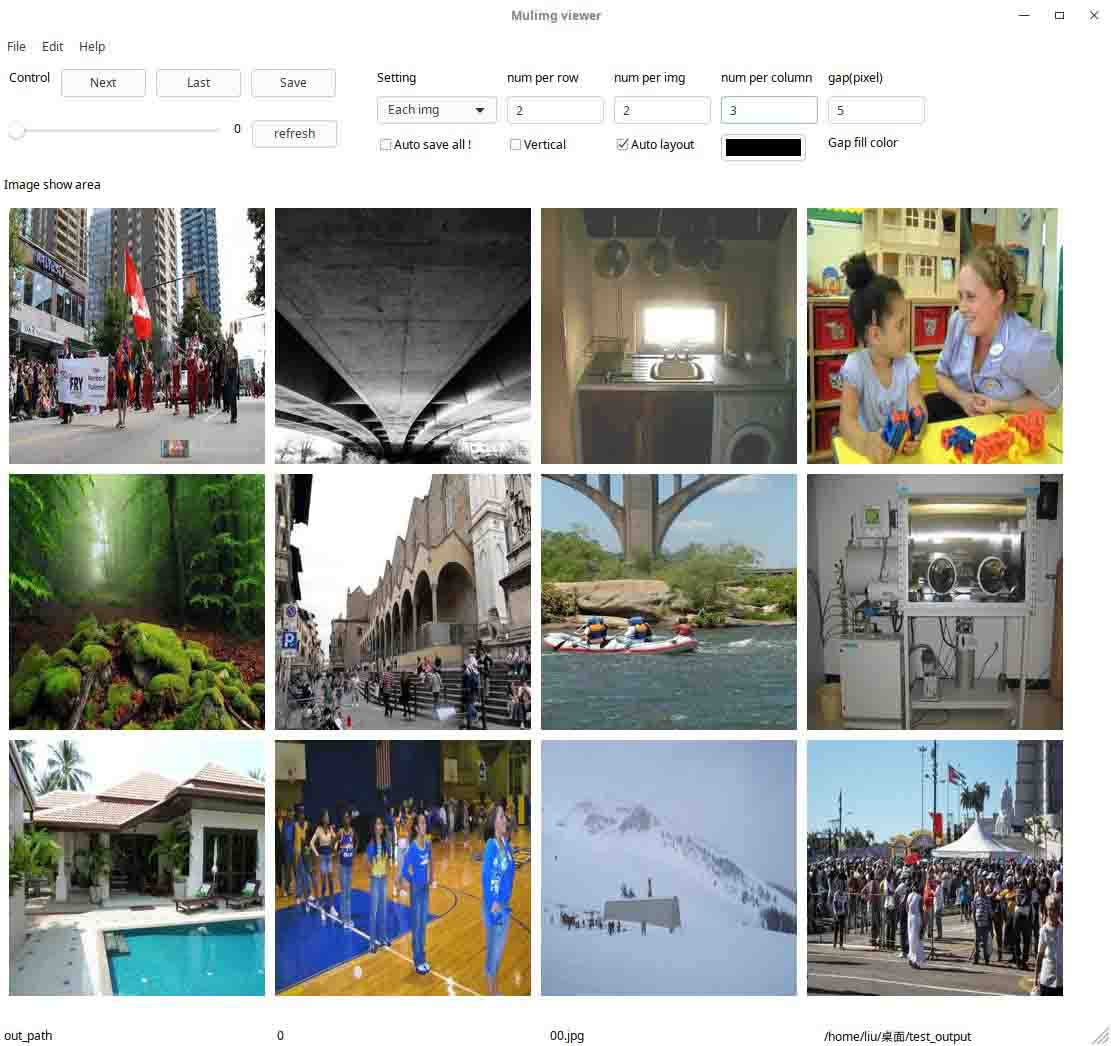
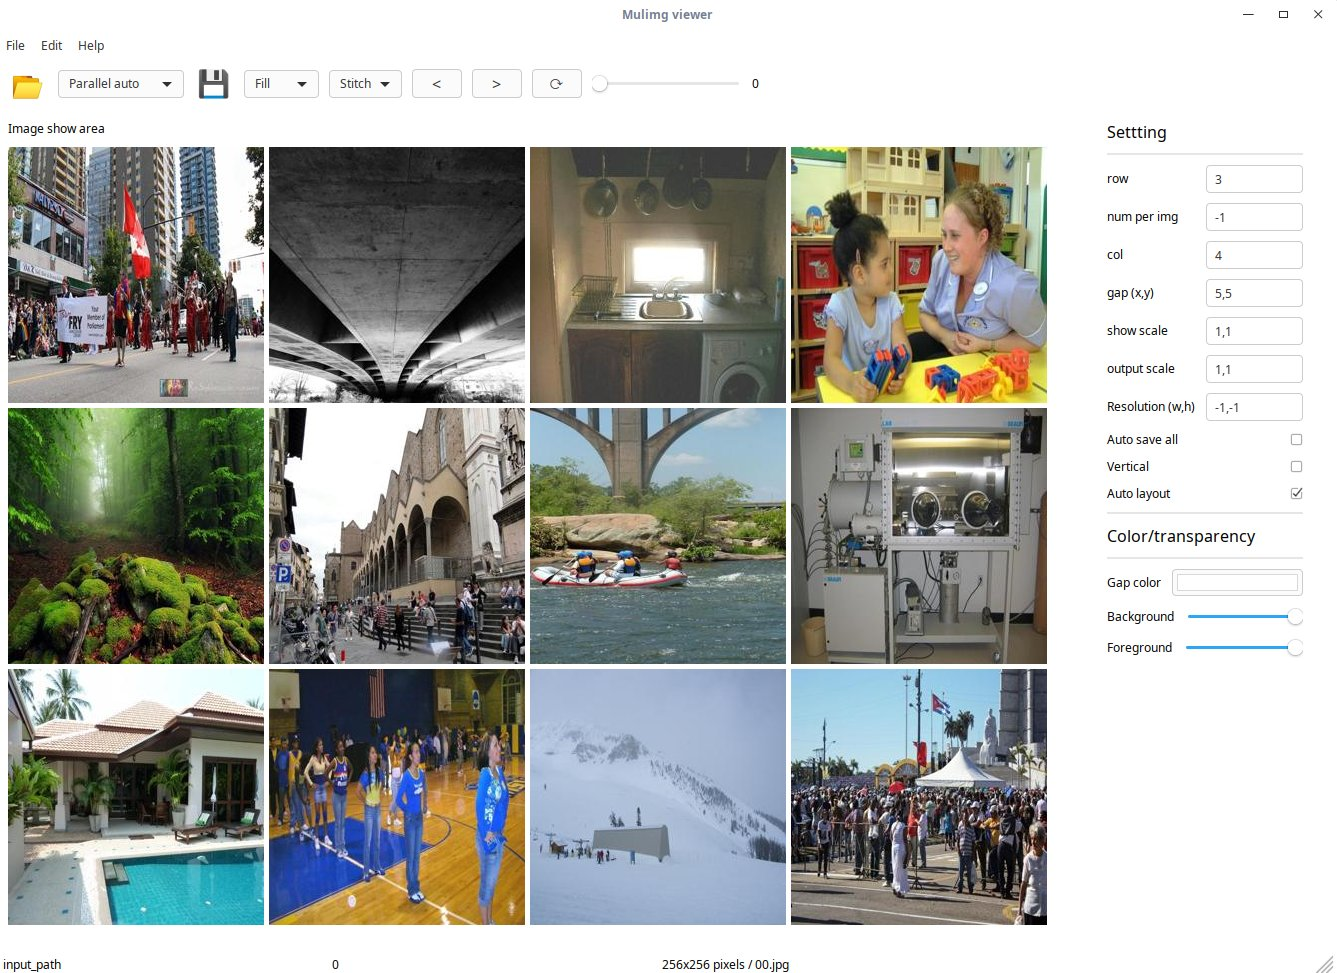
2.02

diff --git a/path_select_gui.py b/path_select_gui.py
@@ -1,10 +1,10 @@
 # -*- coding: utf-8 -*-
 
 ###########################################################################
-## Python code generated with wxFormBuilder (version Oct 26 2018)
-## http://www.wxformbuilder.org/
+# Python code generated with wxFormBuilder (version Oct 26 2018)
+# http://www.wxformbuilder.org/
 ##
-## PLEASE DO *NOT* EDIT THIS FILE!
+# PLEASE DO *NOT* EDIT THIS FILE!
 ###########################################################################
 
 import wx
@@ -12,83 +12,86 @@ import wx.xrc
 import wx.richtext
 
 ###########################################################################
-## Class PathSelectFrameGui
+# Class PathSelectFrameGui
 ###########################################################################
 
-class PathSelectFrameGui ( wx.Frame ):
 
-	def __init__( self, parent ):
-		wx.Frame.__init__ ( self, parent, id = wx.ID_ANY, title = u"Parallel manual choose input directory", pos = wx.DefaultPosition, size = wx.Size( 500,300 ), style = wx.DEFAULT_FRAME_STYLE|wx.TAB_TRAVERSAL )
+class PathSelectFrameGui (wx.Frame):
 
-		self.SetSizeHints( wx.DefaultSize, wx.DefaultSize )
+    def __init__(self, parent):
+        wx.Frame.__init__(self, parent, id=wx.ID_ANY, title=u"Parallel manual choose input directory",
+                          pos=wx.DefaultPosition, size=wx.Size(500, 300), style=wx.DEFAULT_FRAME_STYLE | wx.TAB_TRAVERSAL)
 
-		fgSizer1 = wx.FlexGridSizer( 0, 1, 0, 0 )
-		fgSizer1.SetFlexibleDirection( wx.BOTH )
-		fgSizer1.SetNonFlexibleGrowMode( wx.FLEX_GROWMODE_SPECIFIED )
+        self.SetSizeHints(wx.DefaultSize, wx.DefaultSize)
 
-		utton_clear_last = wx.BoxSizer( wx.HORIZONTAL )
+        fgSizer1 = wx.FlexGridSizer(0, 1, 0, 0)
+        fgSizer1.SetFlexibleDirection(wx.BOTH)
+        fgSizer1.SetNonFlexibleGrowMode(wx.FLEX_GROWMODE_SPECIFIED)
 
-		self.m_dirPicker1 = wx.DirPickerCtrl( self, wx.ID_ANY, wx.EmptyString, u"Select a folder", wx.DefaultPosition, wx.DefaultSize, wx.DIRP_DEFAULT_STYLE )
-		utton_clear_last.Add( self.m_dirPicker1, 0, wx.ALL, 5 )
+        utton_clear_last = wx.BoxSizer(wx.HORIZONTAL)
 
-		self.button_clear_all = wx.Button( self, wx.ID_ANY, u"Clear all path", wx.DefaultPosition, wx.DefaultSize, 0 )
-		utton_clear_last.Add( self.button_clear_all, 0, wx.ALL, 5 )
+        self.m_dirPicker1 = wx.DirPickerCtrl(
+            self, wx.ID_ANY, wx.EmptyString, u"Select a folder", wx.DefaultPosition, wx.DefaultSize, wx.DIRP_DEFAULT_STYLE)
+        utton_clear_last.Add(self.m_dirPicker1, 0, wx.ALL, 5)
 
-		self.button_clear_last = wx.Button( self, wx.ID_ANY, u"Clear last path ", wx.DefaultPosition, wx.DefaultSize, 0 )
-		utton_clear_last.Add( self.button_clear_last, 0, wx.ALL, 5 )
+        self.button_clear_all = wx.Button(
+            self, wx.ID_ANY, u"Clear all path", wx.DefaultPosition, wx.DefaultSize, 0)
+        utton_clear_last.Add(self.button_clear_all, 0, wx.ALL, 5)
 
+        self.button_clear_last = wx.Button(
+            self, wx.ID_ANY, u"Clear last path ", wx.DefaultPosition, wx.DefaultSize, 0)
+        utton_clear_last.Add(self.button_clear_last, 0, wx.ALL, 5)
 
-		fgSizer1.Add( utton_clear_last, 1, wx.EXPAND, 5 )
+        fgSizer1.Add(utton_clear_last, 1, wx.EXPAND, 5)
 
-		self.m_richText1 = wx.richtext.RichTextCtrl( self, wx.ID_ANY, wx.EmptyString, wx.DefaultPosition, wx.Size( -1,300 ), 0|wx.VSCROLL|wx.HSCROLL|wx.NO_BORDER|wx.WANTS_CHARS )
-		fgSizer1.Add( self.m_richText1, 1, wx.EXPAND |wx.ALL, 5 )
+        self.m_richText1 = wx.richtext.RichTextCtrl(self, wx.ID_ANY, wx.EmptyString, wx.DefaultPosition, wx.Size(
+            -1, 300), 0 | wx.VSCROLL | wx.HSCROLL | wx.NO_BORDER | wx.WANTS_CHARS)
+        fgSizer1.Add(self.m_richText1, 1, wx.EXPAND | wx.ALL, 5)
 
+        self.SetSizer(fgSizer1)
+        self.Layout()
+        self.m_menubar1 = wx.MenuBar(0)
+        self.m_menu1 = wx.Menu()
+        self.m_menuItem1 = wx.MenuItem(
+            self.m_menu1, wx.ID_ANY, u"Clear all path" + u"\t" + u"CTRL+A", wx.EmptyString, wx.ITEM_NORMAL)
+        self.m_menu1.Append(self.m_menuItem1)
 
-		self.SetSizer( fgSizer1 )
-		self.Layout()
-		self.m_menubar1 = wx.MenuBar( 0 )
-		self.m_menu1 = wx.Menu()
-		self.m_menuItem1 = wx.MenuItem( self.m_menu1, wx.ID_ANY, u"Clear all path"+ u"\t" + u"CTRL+A", wx.EmptyString, wx.ITEM_NORMAL )
-		self.m_menu1.Append( self.m_menuItem1 )
+        self.m_menuItem2 = wx.MenuItem(
+            self.m_menu1, wx.ID_ANY, u"Clear last path" + u"\t" + u"CTRL+Z", wx.EmptyString, wx.ITEM_NORMAL)
+        self.m_menu1.Append(self.m_menuItem2)
 
-		self.m_menuItem2 = wx.MenuItem( self.m_menu1, wx.ID_ANY, u"Clear last path"+ u"\t" + u"CTRL+Z", wx.EmptyString, wx.ITEM_NORMAL )
-		self.m_menu1.Append( self.m_menuItem2 )
+        self.menu_close = wx.MenuItem(
+            self.m_menu1, wx.ID_ANY, u"Close" + u"\t" + u"Alt+C", wx.EmptyString, wx.ITEM_NORMAL)
+        self.m_menu1.Append(self.menu_close)
 
-		self.menu_close = wx.MenuItem( self.m_menu1, wx.ID_ANY, u"Close"+ u"\t" + u"Alt+C", wx.EmptyString, wx.ITEM_NORMAL )
-		self.m_menu1.Append( self.menu_close )
+        self.m_menubar1.Append(self.m_menu1, u"Edit")
 
-		self.m_menubar1.Append( self.m_menu1, u"Edit" )
+        self.SetMenuBar(self.m_menubar1)
 
-		self.SetMenuBar( self.m_menubar1 )
+        self.Centre(wx.BOTH)
 
+        # Connect Events
+        self.m_dirPicker1.Bind(wx.EVT_DIRPICKER_CHANGED, self.change_dir)
+        self.button_clear_all.Bind(wx.EVT_BUTTON, self.clear_all_path)
+        self.button_clear_last.Bind(wx.EVT_BUTTON, self.clear_last_path)
+        self.Bind(wx.EVT_MENU, self.clear_all_path,
+                  id=self.m_menuItem1.GetId())
+        self.Bind(wx.EVT_MENU, self.clear_last_path,
+                  id=self.m_menuItem2.GetId())
+        self.Bind(wx.EVT_MENU, self.Close, id=self.menu_close.GetId())
 
-		self.Centre( wx.BOTH )
+    def __del__(self):
+        pass
 
-		# Connect Events
-		self.m_dirPicker1.Bind( wx.EVT_DIRPICKER_CHANGED, self.change_dir )
-		self.button_clear_all.Bind( wx.EVT_BUTTON, self.clear_all_path )
-		self.button_clear_last.Bind( wx.EVT_BUTTON, self.clear_last_path )
-		self.Bind( wx.EVT_MENU, self.clear_all_path, id = self.m_menuItem1.GetId() )
-		self.Bind( wx.EVT_MENU, self.clear_last_path, id = self.m_menuItem2.GetId() )
-		self.Bind( wx.EVT_MENU, self.Close, id = self.menu_close.GetId() )
+    # Virtual event handlers, overide them in your derived class
+    def change_dir(self, event):
+        event.Skip()
 
-	def __del__( self ):
-		pass
+    def clear_all_path(self, event):
+        event.Skip()
 
+    def clear_last_path(self, event):
+        event.Skip()
 
-	# Virtual event handlers, overide them in your derived class
-	def change_dir( self, event ):
-		event.Skip()
-
-	def clear_all_path( self, event ):
-		event.Skip()
-
-	def clear_last_path( self, event ):
-		event.Skip()
-
-
-
-	def Close( self, event ):
-		event.Skip()
-
-
+    def Close(self, event):
+        event.Skip()

diff --git a/mulimg_viewer_gui.py b/mulimg_viewer_gui.py
@@ -193,19 +193,6 @@ class MulimgViewerGui ( wx.Frame ):
 
 		fgSizer3.Add( bSizer5, 1, wx.EXPAND, 5 )
 
-		bSizer6 = wx.BoxSizer( wx.HORIZONTAL )
-
-		self.m_staticText7 = wx.StaticText( self.m_scrolledWindow2, wx.ID_ANY, u"output scale", wx.DefaultPosition, wx.DefaultSize, 0 )
-		self.m_staticText7.Wrap( -1 )
-
-		bSizer6.Add( self.m_staticText7, 1, wx.ALL|wx.ALIGN_CENTER_VERTICAL, 5 )
-
-		self.output_scale = wx.TextCtrl( self.m_scrolledWindow2, wx.ID_ANY, u"1,1", wx.DefaultPosition, wx.DefaultSize, 0 )
-		bSizer6.Add( self.output_scale, 0, wx.ALL, 5 )
-
-
-		fgSizer3.Add( bSizer6, 1, wx.EXPAND, 5 )
-
 		bSizer7 = wx.BoxSizer( wx.HORIZONTAL )
 
 		self.m_staticText8 = wx.StaticText( self.m_scrolledWindow2, wx.ID_ANY, u"Resolution (w,h)", wx.DefaultPosition, wx.DefaultSize, 0 )
@@ -218,6 +205,19 @@ class MulimgViewerGui ( wx.Frame ):
 
 
 		fgSizer3.Add( bSizer7, 1, wx.EXPAND, 5 )
+
+		bSizer6 = wx.BoxSizer( wx.HORIZONTAL )
+
+		self.m_staticText7 = wx.StaticText( self.m_scrolledWindow2, wx.ID_ANY, u"output scale", wx.DefaultPosition, wx.DefaultSize, 0 )
+		self.m_staticText7.Wrap( -1 )
+
+		bSizer6.Add( self.m_staticText7, 1, wx.ALL|wx.ALIGN_CENTER_VERTICAL, 5 )
+
+		self.output_scale = wx.TextCtrl( self.m_scrolledWindow2, wx.ID_ANY, u"1,1", wx.DefaultPosition, wx.DefaultSize, 0 )
+		bSizer6.Add( self.output_scale, 0, wx.ALL, 5 )
+
+
+		fgSizer3.Add( bSizer6, 1, wx.EXPAND, 5 )
 
 		bSizer8 = wx.BoxSizer( wx.HORIZONTAL )
 
@@ -326,14 +326,14 @@ class MulimgViewerGui ( wx.Frame ):
 		self.m_menubar1 = wx.MenuBar( 0 )
 		self.m_menu1 = wx.Menu()
 		self.m_menu11 = wx.Menu()
+		self.menu_open_sequential = wx.MenuItem( self.m_menu11, wx.ID_ANY, u"Sequential"+ u"\t" + u"Ctrl+E", u"one dir mul limg", wx.ITEM_NORMAL )
+		self.m_menu11.Append( self.menu_open_sequential )
+
 		self.menu_open_auto = wx.MenuItem( self.m_menu11, wx.ID_ANY, u"Parallel auto"+ u"\t" + u"Ctrl+A", u"one dir mul dir", wx.ITEM_NORMAL )
 		self.m_menu11.Append( self.menu_open_auto )
 
 		self.menu_open_manual = wx.MenuItem( self.m_menu11, wx.ID_ANY, u"Parallel manual"+ u"\t" + u"Ctrl+M", u"one dir mul dir", wx.ITEM_NORMAL )
 		self.m_menu11.Append( self.menu_open_manual )
-
-		self.menu_open_sequential = wx.MenuItem( self.m_menu11, wx.ID_ANY, u"Sequential"+ u"\t" + u"Ctrl+E", u"one dir mul limg", wx.ITEM_NORMAL )
-		self.m_menu11.Append( self.menu_open_sequential )
 
 		self.m_menu1.AppendSubMenu( self.m_menu11, u"Open" )
 
@@ -392,9 +392,9 @@ class MulimgViewerGui ( wx.Frame ):
 		self.colourPicker_gap.Bind( wx.EVT_COLOURPICKER_CHANGED, self.colour_change )
 		self.background_slider.Bind( wx.EVT_SCROLL, self.background_alpha )
 		self.foreground_slider.Bind( wx.EVT_SCROLL, self.foreground_alpha )
+		self.Bind( wx.EVT_MENU, self.one_dir_mul_img, id = self.menu_open_sequential.GetId() )
 		self.Bind( wx.EVT_MENU, self.one_dir_mul_dir_auto, id = self.menu_open_auto.GetId() )
 		self.Bind( wx.EVT_MENU, self.one_dir_mul_dir_manual, id = self.menu_open_manual.GetId() )
-		self.Bind( wx.EVT_MENU, self.one_dir_mul_img, id = self.menu_open_sequential.GetId() )
 		self.Bind( wx.EVT_MENU, self.out_path, id = self.menu_output.GetId() )
 		self.Bind( wx.EVT_MENU, self.next_img, id = self.menu_next.GetId() )
 		self.Bind( wx.EVT_MENU, self.last_img, id = self.menu_last.GetId() )
@@ -444,13 +444,13 @@ class MulimgViewerGui ( wx.Frame ):
 	def foreground_alpha( self, event ):
 		event.Skip()
 
+	def one_dir_mul_img( self, event ):
+		event.Skip()
+
 	def one_dir_mul_dir_auto( self, event ):
 		event.Skip()
 
 	def one_dir_mul_dir_manual( self, event ):
-		event.Skip()
-
-	def one_dir_mul_img( self, event ):
 		event.Skip()
 
 	def out_path( self, event ):

diff --git a/utils.py b/utils.py
@@ -146,7 +146,8 @@ class ImgManager(ImgDataset):
         self.gap_alpha = 255
         self.img_alpha = 255
         self.img_stitch_mode = 0  # 0:"fill" 1:"crop" 2:"resize"
-        self.img_resolution = [-1,-1]
+        self.img_resolution = [-1, -1]
+        self.custom_resolution = False
 
     def save_img(self, out_path_str, out_type):
         check = []
@@ -242,8 +243,14 @@ class ImgManager(ImgDataset):
                 width = np.mean(width_)
                 height = np.mean(height_)
         else:
-            self.img_resolution = [-1,-1]
-        self.img_resolution = [int(width),int(height)]
+            self.img_resolution = [-1, -1]
+
+        if self.layout_params[6][0]==-1 or self.layout_params[6][1]==-1:
+            self.img_resolution = [int(width), int(height)]
+            self.custom_resolution = False
+        else:
+            self.img_resolution = [int(i) for i in self.layout_params[6]]
+            self.custom_resolution = True
 
         return img_list
 
@@ -251,7 +258,6 @@ class ImgManager(ImgDataset):
         try:
             img_list = self.get_img_list()
             width,height = self.img_resolution
-
             img_num_per_row = self.layout_params[0]
             num_per_img = self.layout_params[1]
             img_num_per_column = self.layout_params[2]
@@ -274,7 +280,7 @@ class ImgManager(ImgDataset):
                                 im = self.img_preprocessing(im)
                                 img.paste(im, (x, y))
             else:
-                img = Image.new('RGBA', (width * img_num_per_row * num_per_img + gap[0] * (img_num_per_row-1),height * img_num_per_column + gap[1] * (img_num_per_column-1)), self.gap_color)
+                img = Image.new('RGBA', (width * img_num_per_row * num_per_img + gap[0] * (img_num_per_row-1), height * img_num_per_column + gap[1] * (img_num_per_column-1)), self.gap_color)
 
                 for iy in range(img_num_per_column):
 
@@ -301,16 +307,23 @@ class ImgManager(ImgDataset):
         return wx.Bitmap.FromBufferRGBA(width, height, image.tobytes())
 
     def img_preprocessing(self, img):
-        if self.img_stitch_mode==0:
-            pass
-        elif self.img_stitch_mode==1:
-            width,height = self.img_resolution
-            (left, upper, right, lower) = ((img.size[0]-width)/2,(img.size[1]-height)/2, (img.size[0]-width)/2+width, (img.size[1]-height)/2+height)
-            img = img.crop((left, upper, right, lower))
-        elif self.img_stitch_mode==2:
-            width,height = self.img_resolution
-            img = img.resize((width, height), Image.BICUBIC)
+        if self.custom_resolution:
+            # custom image resolution
+            width, height = self.img_resolution
+            img = img.resize((width, height), Image.BICUBIC)  
+        else:
+            if self.img_stitch_mode == 0:
+                pass
+            elif self.img_stitch_mode == 1:
+                width, height = self.img_resolution
+                (left, upper, right, lower) = (
+                    (img.size[0]-width)/2, (img.size[1]-height)/2, (img.size[0]-width)/2+width, (img.size[1]-height)/2+height)
+                img = img.crop((left, upper, right, lower))
+            elif self.img_stitch_mode == 2:
+                width, height = self.img_resolution
+                img = img.resize((width, height), Image.BICUBIC)          
         return img
+
     def change_img_alpha(self, img):
         img_array = np.array(img)
         temp = img_array[:, :, 0]

diff --git a/mulimg_viewer.py b/mulimg_viewer.py
@@ -308,14 +308,14 @@ class MulimgViewer (MulimgViewerGui):
             # status
             if self.ImgManager.type == 0 or self.ImgManager.type == 1:
                 self.SetStatusText_(
-                    ["-1", str(self.ImgManager.action_count), str(self.ImgManager.img_resolution[0])+"x"+str(self.ImgManager.img_resolution[0])+" pixels / "+str(self.ImgManager.name_list[self.ImgManager.action_count]), "-1"])
+                    ["-1", str(self.ImgManager.action_count), str(self.ImgManager.img_resolution[0])+"x"+str(self.ImgManager.img_resolution[1])+" pixels / "+str(self.ImgManager.name_list[self.ImgManager.action_count]), "-1"])
             elif self.ImgManager.type == 2:
                 try:
                     self.SetStatusText_(
-                        ["-1", str(self.ImgManager.action_count), str(self.ImgManager.img_resolution[0])+"x"+str(self.ImgManager.img_resolution[0])+" pixels / "+str(self.ImgManager.name_list[self.ImgManager.img_count])+"-"+str(self.ImgManager.name_list[self.ImgManager.img_count+self.ImgManager.count_per_action-1]), "-1"])
+                        ["-1", str(self.ImgManager.action_count), str(self.ImgManager.img_resolution[0])+"x"+str(self.ImgManager.img_resolution[1])+" pixels / "+str(self.ImgManager.name_list[self.ImgManager.img_count])+"-"+str(self.ImgManager.name_list[self.ImgManager.img_count+self.ImgManager.count_per_action-1]), "-1"])
                 except:
                     self.SetStatusText_(
-                        ["-1", str(self.ImgManager.action_count), str(self.ImgManager.img_resolution[0])+"x"+str(self.ImgManager.img_resolution[0])+" pixels / "+str(self.ImgManager.name_list[self.ImgManager.img_count])+"-"+str(self.ImgManager.name_list[self.ImgManager.img_num-1]), "-1"])
+                        ["-1", str(self.ImgManager.action_count), str(self.ImgManager.img_resolution[0])+"x"+str(self.ImgManager.img_resolution[1])+" pixels / "+str(self.ImgManager.name_list[self.ImgManager.img_count])+"-"+str(self.ImgManager.name_list[self.ImgManager.img_num-1]), "-1"])
             if flag == 1:
                 self.SetStatusText_(
                     ["-1", str(self.ImgManager.action_count)+' image', "***Error: "+str(self.ImgManager.name_list[self.ImgManager.action_count]) + ", during stitching images***", "-1"])

diff --git a/about.py b/about.py
@@ -20,7 +20,7 @@ class About (AboutGui):
         self.about_txt.BeginBold()
         self.about_txt.WriteText("Version: ")
         self.about_txt.EndBold()
-        self.about_txt.WriteText("1.2\n")
+        self.about_txt.WriteText("2.0\n")
 
         self.about_txt.BeginBold()
         self.about_txt.WriteText("Platform: ")

diff --git a/path_select.py b/path_select.py
@@ -11,6 +11,7 @@ class PathSelectFrame (PathSelectFrameGui):
         self.UpdateUI = UpdateUI
         self.get_type = get_type
         self.Bind(wx.EVT_CLOSE, self.Close)
+
     def Close(self, event):
         if self.get_type() == -1:
             self.Destroy()

diff --git a/main.py b/main.py
@@ -3,6 +3,7 @@ from mulimg_viewer import MulimgViewer
 from path_select import PathSelectFrame
 import wx.lib.inspection
 
+
 class GuiManager():
     def __init__(self, UpdateUI, get_type):
         self.UpdateUI = UpdateUI
